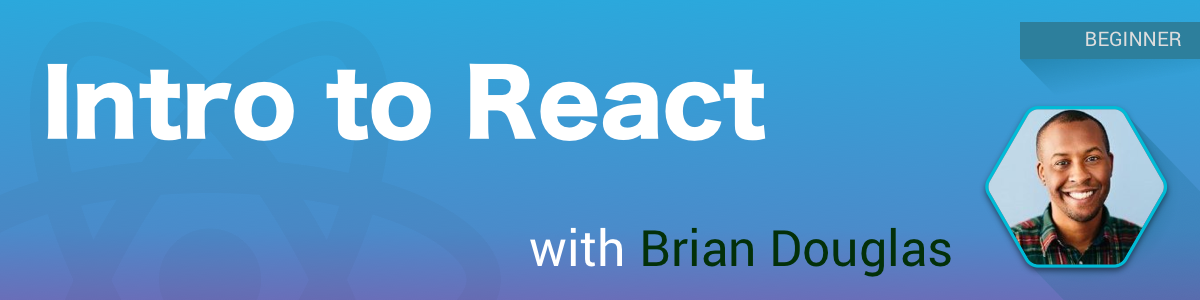
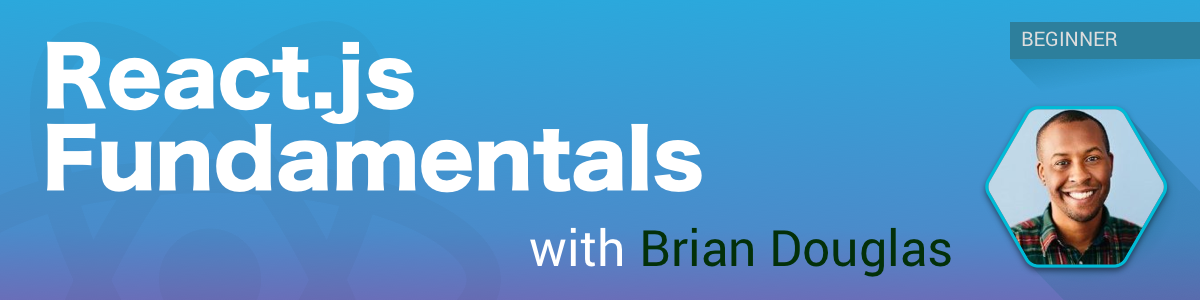
Feat: Style workshop modal images. Update workshops copy. Add workshop length.

Changed region(s): [[0.0308, 0.12, 0.6475, 0.66], [0.8325, 0.06, 0.9867, 0.21]]

diff --git a/client/components/workshops/Workshops.jsx b/client/components/workshops/Workshops.jsx
@@ -29,7 +29,8 @@ import introReact from './intro-react.png';
 import reactNative from './react-native.png';
 import redux from './redux.png';
 import rxjs from './rxjs.png';
-import serverless from './serverless.png';
+import serverlessWorkshop from './serverless-workshop.png';
+import webpacking from './webpacking.png'
 
 const images = {
   ben,
@@ -41,12 +42,12 @@ const images = {
 };
 const headers = {
   'ES.next Fundamentals': esnext,
-  'Intro to React': introReact,
+  'React.js Fundamentals': introReact,
   'Integrate Redux into your React App': redux,
   'RxJS & Redux-Observable': rxjs,
-  Webpacking: null,
+  'Webpacking': webpacking,
   'Going Native with React': reactNative,
-  'Serverless Apps with AWS Lambda & React': serverless
+  'Serverless Apps with AWS Lambda & React': serverlessWorkshop
 };
 const cx = classnames.bind(styles);
 const propTypes = {};

diff --git a/client/components/workshops/Workshop.jsx b/client/components/workshops/Workshop.jsx
@@ -15,6 +15,7 @@ const propTypes = {
   difficulty: PropTypes.string,
   header: PropTypes.string,
   instructor: PropTypes.string,
+  length: PropTypes.number,
   name: PropTypes.string,
   openModal: PropTypes.func.isRequired,
   closeModal: PropTypes.func.isRequired,
@@ -42,6 +43,7 @@ export default class Workshop extends PureComponent {
       difficulty,
       header,
       instructor,
+      length,
       name,
       openModal,
       showModal,
@@ -105,6 +107,10 @@ export default class Workshop extends PureComponent {
             <div className={ cx('bio') }>
               { bio }
             </div>
+            <div className={ cx('length') }>
+              Length: { length } hours
+            </div>
+
             <button onClick={ closeModal }>
               Close
             </button>
